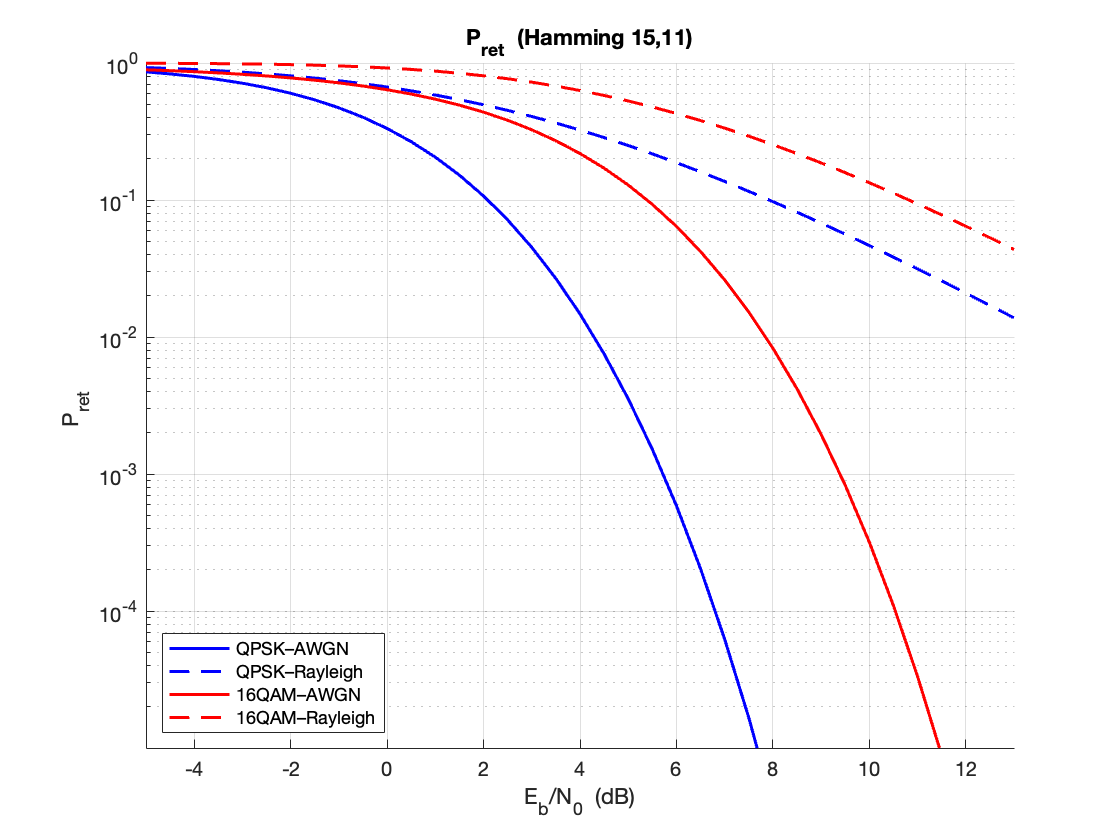
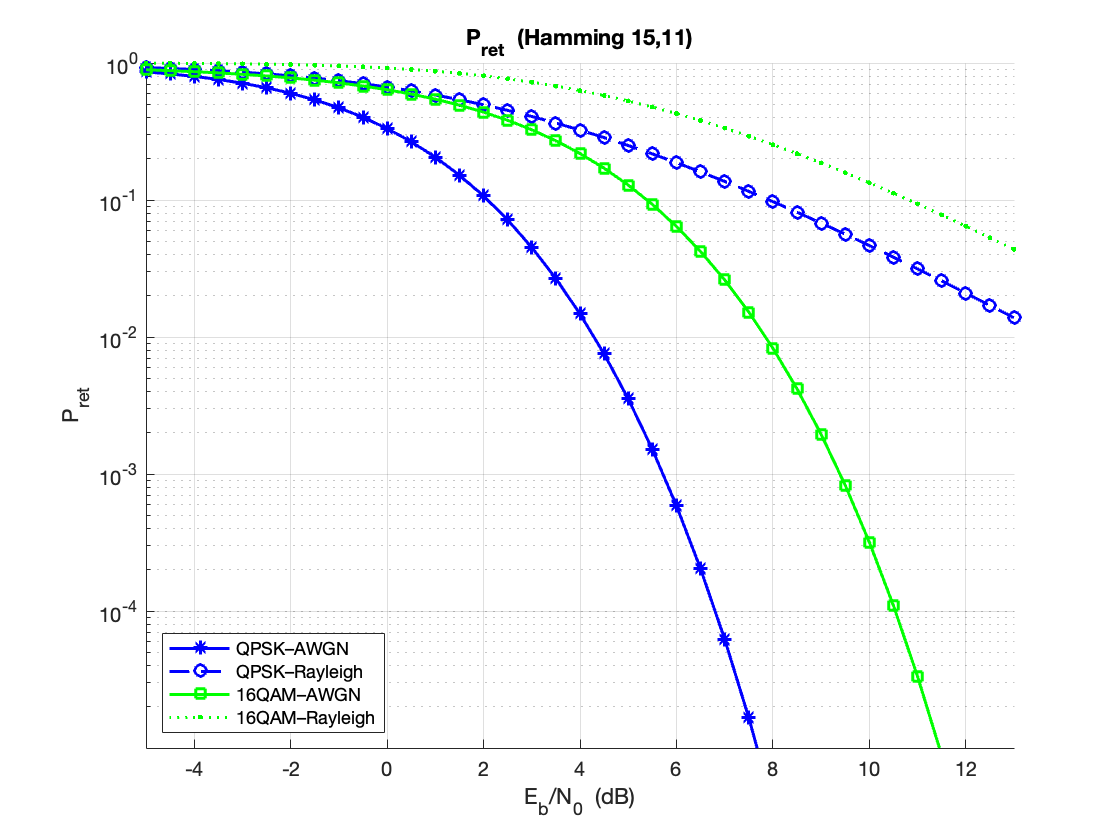
fix

diff --git a/software_tac/Pretrans.m b/software_tac/Pretrans.m
@@ -3,32 +3,42 @@ clear, clc
 EbN0dB = -5:0.5:22;
 EbN0   = 10.^(EbN0dB/10);
 
+<<<<<<< Updated upstream
 
 % ----- BER bruto sem FEC ----------------------------------
 berRaw.QPSK_AWGN  = q_x(sqrt(2*EbN0));
 berRaw.QPSK_Ray   = 0.5 * (1 - sqrt(EbN0 ./ (1+EbN0)));
 
 berRaw.QAM16_AWGN = 0.75 * Qf( sqrt((4/5)*EbN0) );
+=======
+
+
+% ----- BER bruto sem FEC ----------------------------------
+berRaw.QPSK_AWGN  = q_x( sqrt(2*EbN0) );
+berRaw.QPSK_Ray   = 0.5 * (1 - sqrt(EbN0 ./ (1+EbN0)));
+berRaw.QAM16_AWGN = 0.75 * q_x( sqrt(4/5*EbN0) );
+>>>>>>> Stashed changes
 berRaw.QAM16_Ray  = 0.75 * (1 - sqrt((4/5)*EbN0 ./ (1+4/5*EbN0)));
 
-% ----- P_retx  (falha quando ≥2 erros num bloco de 15) ----
 Pretx  = struct();
 fields = fieldnames(berRaw);
 
 for k = 1:numel(fields)
-    p           = berRaw.(fields{k});
+    p = berRaw.(fields{k});
     Pretx.(fields{k}) = 1 - (1-p).^15 - 15*p.*(1-p).^14;
 end
 
-% ----- gráfico -------------------------------------------
+
+styles = {'b-*', 'b--o', 'g-s', 'g:.'};
+legendas = {'QPSK–AWGN','QPSK–Rayleigh','16QAM–AWGN','16QAM–Rayleigh'};
+Pretx_arr = {Pretx.QPSK_AWGN, Pretx.QPSK_Ray, Pretx.QAM16_AWGN, Pretx.QAM16_Ray};
+
 figure, hold on, grid on, set(gca,'YScale','log')
-plot(EbN0dB, Pretx.QPSK_AWGN , 'b-' ,'LineWidth',1.5)
-plot(EbN0dB, Pretx.QPSK_Ray  , 'b--','LineWidth',1.5)
-plot(EbN0dB, Pretx.QAM16_AWGN, 'r-' ,'LineWidth',1.5)
-plot(EbN0dB, Pretx.QAM16_Ray , 'r--','LineWidth',1.5)
+for k = 1:4
+    plot(EbN0dB, Pretx_arr{k}, styles{k}, 'LineWidth', 1.5, 'MarkerSize',6)
+end
 xlabel('E_b/N_0  (dB)')
-ylabel('P_{ret} ')
+ylabel('P_{ret}')
 title('P_{ret}  (Hamming 15,11)')
-legend({'QPSK–AWGN','QPSK–Rayleigh','16QAM–AWGN','16QAM–Rayleigh'}, ...
-       'Location','southwest')
+legend(legendas, 'Location','southwest')
 axis([-5 13 1e-5 1])
